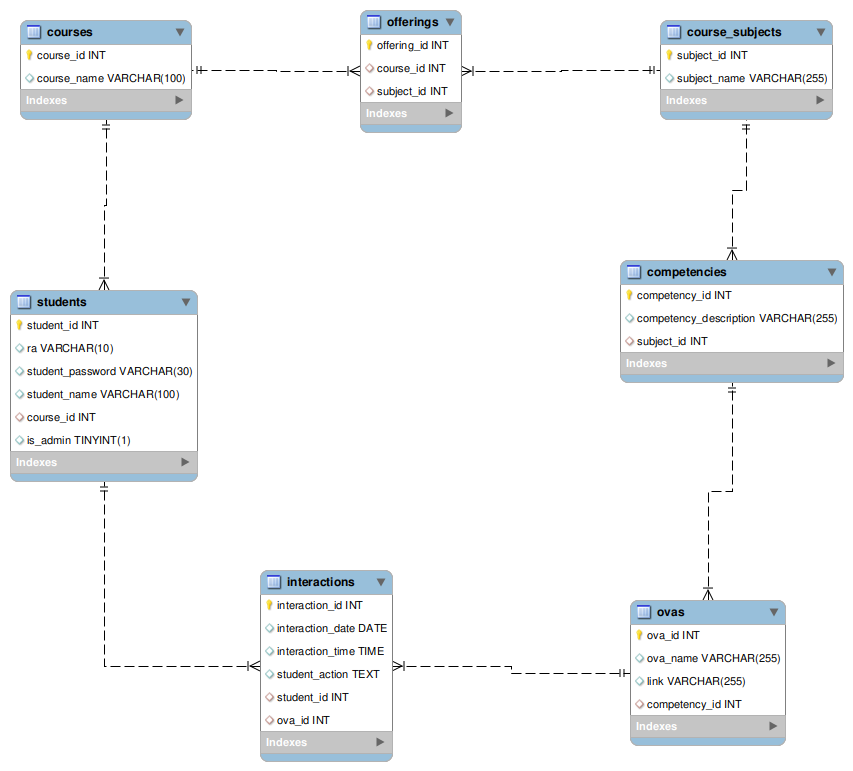
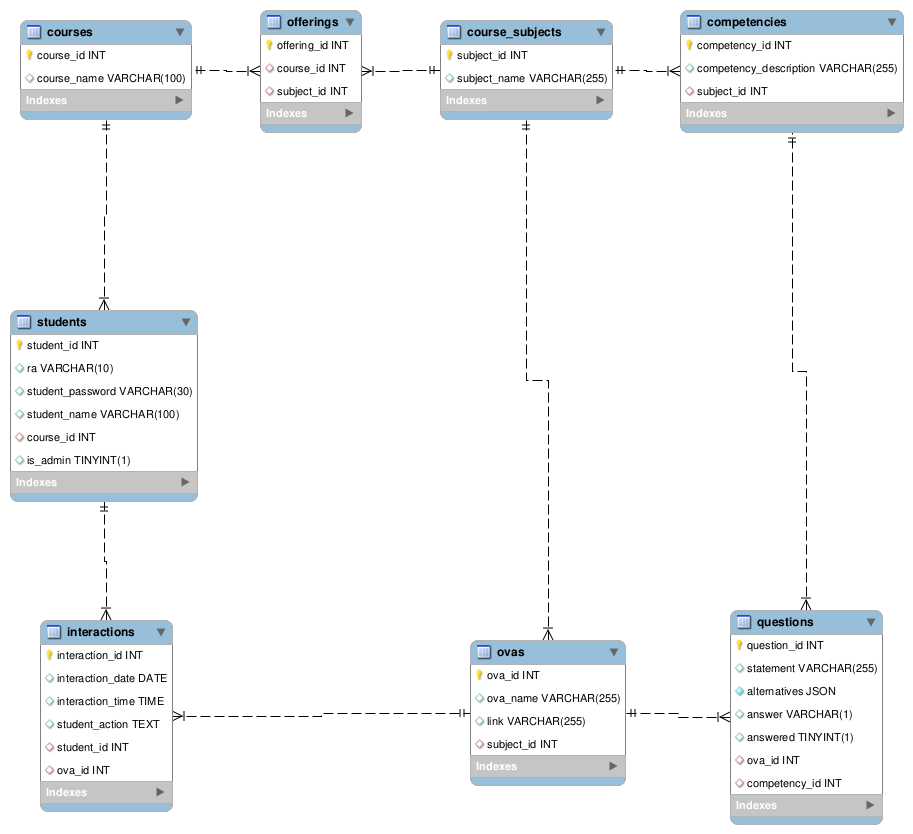
added the questions table in database and created its routes

diff --git a/Back-End/api/routes/questionRoute.py b/Back-End/api/routes/questionRoute.py
@@ -1,0 +1,79 @@
+# this lines below enable import from other submodules
+import sys, os
+root = os.path.abspath(os.path.join(os.getcwd(), os.pardir))
+sys.path.append(root)
+sys.path.append(os.path.abspath(os.path.join(os.getcwd(), 'data/models')))
+sys.path.append(os.path.abspath(os.path.join(os.getcwd(), 'data')))
+
+# necessary libraries import
+from flask import Blueprint, request
+from flask_cors import cross_origin
+import json
+from peewee import PeeweeException # ORM library
+
+# import of the necessary orm classes
+from questions import Questions
+
+# creation of a route blueprint, a reusable component
+app_question = Blueprint("question", __name__)
+
+# it returns all the questions from the database
+@app_question.route("/question/all", methods=["GET"])
+# activate the cross-origin, that accepts requests from another domain
+@cross_origin()
+def show_all_questions():
+    if request.method == "GET":
+        try:
+            # get all the questions
+            questions = Questions.select()
+            question_list = []
+            # for each question, append to the list its id, statement
+            # alternatives and answer
+            for question in questions:
+                question_dict = {
+                    "question_id": question.question_id,
+                    "statement": question.statement,
+                    "alternatives": question.alternatives["alternatives"],
+                    "answer": question.answer
+                }
+                question_list.append(question_dict.copy())
+            # returns the result array
+            return json.dumps(question_list)
+        except PeeweeException as err:
+            # handle the error returning the description of the error
+            return json.dumps({"Error": f"{err}"}), 501
+    else:
+        # return this if the http method is any other than GET
+        return "Wrong Request Methods. Only GET Allowed", 405
+
+#given a ova, return all the question of this ova
+@app_question.route("/question/ova/<int:ova_id>", methods=["GET"])
+# activate the cross-origin, that accepts requests from another domain
+@cross_origin()
+def show_ova_questions(ova_id):
+    if request.method == "GET":
+        try:
+            # get all the questions of the given ova
+            questions = Questions.select().where(Questions.ova_id == ova_id)
+            question_list = []
+            # for each question, append to the list its id, statement
+            # alternatives, answer and the competency_id
+            # of the competency worked with this question
+            for question in questions:
+                question_dict = {
+                    "question_id": question.question_id,
+                    "statement": question.statement,
+                    "alternatives": question.alternatives["alternatives"],
+                    "answer": question.answer,
+                    "answered": question.answered,
+                    "competency_id": question.competency_id.competency_id
+                }
+                question_list.append(question_dict.copy())
+            # returns the result array
+            return json.dumps(question_list)
+        except PeeweeException as err:
+            # handle the error returning the description of the error
+            return json.dumps({"Error": f"{err}"}), 501
+    else:
+        # return this if the http method is any other than GET
+        return "Wrong Request Methods. Only GET Allowed", 405

diff --git a/Back-End/api/routes/ovaRoute.py b/Back-End/api/routes/ovaRoute.py
@@ -15,7 +15,6 @@ from collections import defaultdict
 # import of the necessary orm classes
 from offerings import Offerings
 from subjects import Subjects
-from competencies import Competencies
 from ovas import OVAs
 
 # creation of a route blueprint, a reusable component
@@ -31,22 +30,20 @@ def show_course_OVAs(course_id):
             # create aliases for less writing
             of = Offerings.alias()
             s = Subjects.alias()
-            c = Competencies.alias()
             o = OVAs.alias()
             
             # query all the OVAs of the given course, joining the tables by its ids and filtering the course table
-            query = o.select(s.subject_name, c.competency_description, o.ova_id, o.ova_name, o.link).join(c).join(s).join(of).where(of.course_id == course_id)
+            query = o.select(s.subject_name, o.ova_id, o.ova_name, o.link).join(s).join(of).where(of.course_id == course_id)
             
             # make the result a defaultdict. for handle automatically the key error
             result = defaultdict(list)
             
             # for each OVA, append the id, name, description and html link to the result array
             for ova in query:
-                competency = ova.competency_id
-                result[competency.subject_id.subject_name].append({
+                subject = ova.subject_id
+                result[subject.subject_name].append({
                     "ova_id": ova.ova_id,
                     "ova_name": ova.ova_name,
-                    "competency_description": competency.competency_description,
                     "link": ova.link
             })
             return json.dumps(result)

diff --git a/Back-End/data/models/questions.py b/Back-End/data/models/questions.py
@@ -1,0 +1,22 @@
+# import the necessary classes
+from base import BaseModel
+from competencies import Competencies
+from ovas import OVAs
+from peewee import *
+from playhouse.mysql_ext import JSONField
+
+class Questions(BaseModel):
+    # id of the question
+    question_id = IntegerField(primary_key=True)
+    # statement of the question
+    statement = TextField()
+    # alternatives of the question
+    alternatives = JSONField()
+    # answer of the question
+    answer = TextField()
+    # if the user has already answered or not
+    answered = BooleanField()
+    # id of the ova to which it belongs to
+    ova_id = ForeignKeyField(OVAs, backref="questions", on_delete="cascade", on_update="cascade")
+    # id of the competency to which he belongs to
+    competency_id = ForeignKeyField(Competencies, backref="questions", on_delete="cascade", on_update="cascade")

diff --git a/Back-End/data/models/ovas.py b/Back-End/data/models/ovas.py
@@ -1,6 +1,6 @@
 # import the necessary classes
 from base import BaseModel
-from competencies import Competencies
+from subjects import Subjects
 from peewee import *
 
 class OVAs(BaseModel):
@@ -8,7 +8,7 @@ class OVAs(BaseModel):
     ova_id = IntegerField(primary_key=True)
     # name of the ova
     ova_name = TextField()
-    # competency to which it belongs
-    competency_id = ForeignKeyField(Competencies, backref="ovas", on_delete="cascade", on_update="cascade")
+    # subject to which it belongs
+    subject_id = ForeignKeyField(Subjects, backref="ovas", on_delete="cascade", on_update="cascade")
     # html link to an ova page
     link = TextField()

diff --git a/Back-End/api/api.py b/Back-End/api/api.py
@@ -9,6 +9,7 @@ from routes.courseRoute import app_course
 from routes.interactionRoute import app_interaction
 from routes.studentRoute import app_student
 from routes.plotRoute import app_plot
+from routes.questionRoute import app_question
 
 # creation of the app and cors object
 app = Flask(__name__)
@@ -21,6 +22,7 @@ app.register_blueprint(app_course)
 app.register_blueprint(app_interaction)
 app.register_blueprint(app_student)
 app.register_blueprint(app_plot)
+app.register_blueprint(app_question)
 
 # initiate the application
 if __name__ == "__main__":
